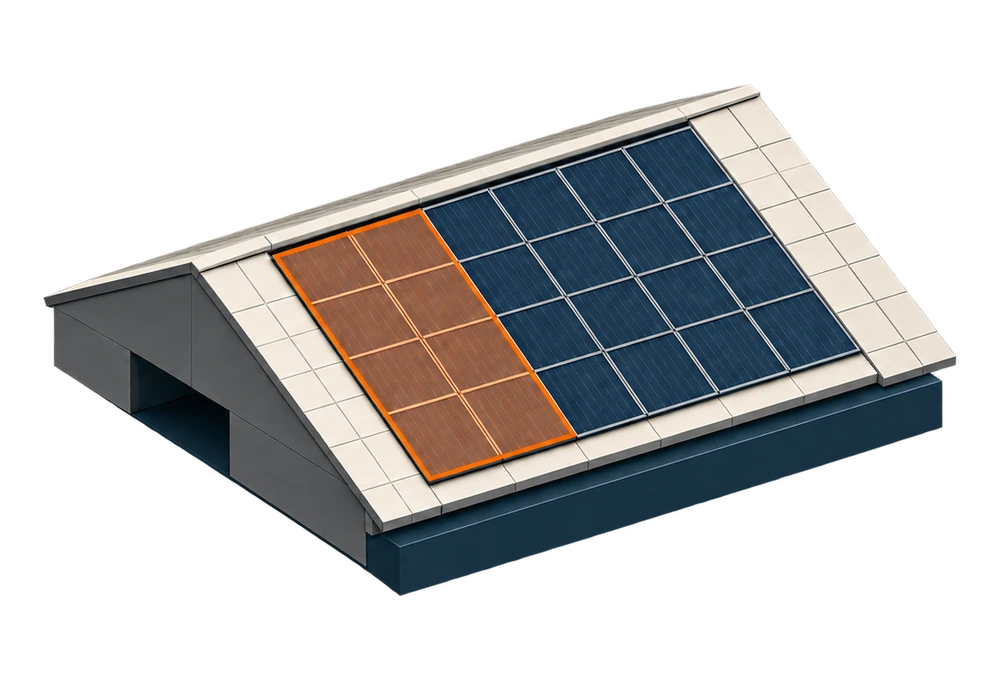
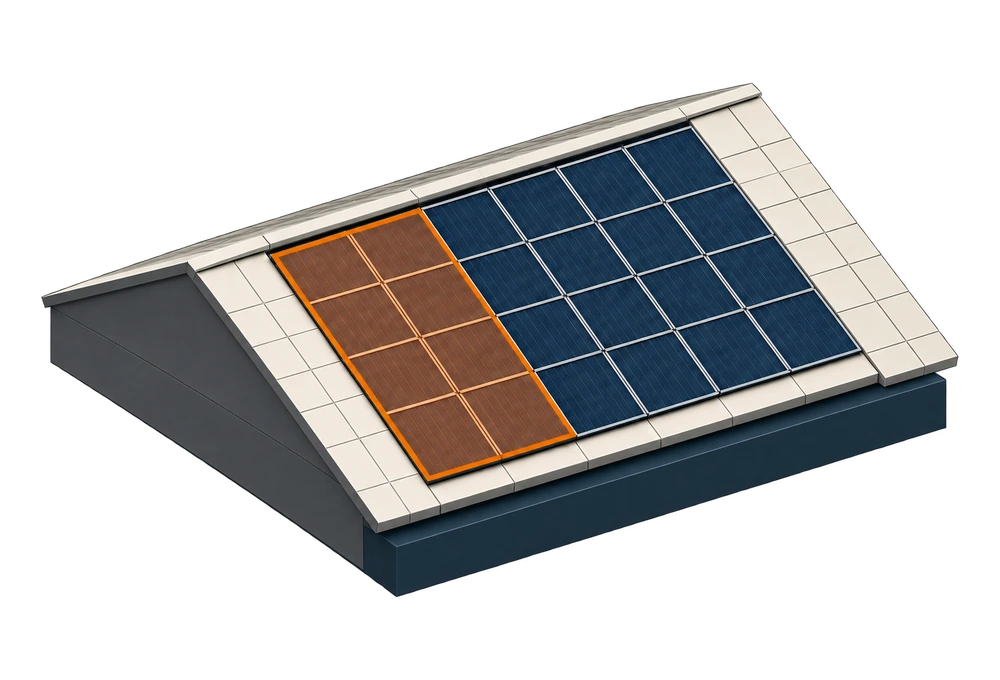
fix: correct roof body in approved technical hero graphic
Close the unintended gable opening, preserve the PV array and highlight,
and refresh graphics-review.webp. Other two motifs are unchanged.
Asset review passed; existing browser/deployment gate remains pending.

diff --git a/docs/qa/technical-hero-2026-10-06/roof-correction.md b/docs/qa/technical-hero-2026-10-06/roof-correction.md
@@ -1,0 +1,33 @@
+# Roof graphic correction — 6 October 2026
+
+User feedback: correct the roof in graphics-review.webp; other two graphics approved.
+
+Changed only the roof asset and rebuilt the comparison sheet. The left gable is
+now a continuous closed face, replacing the unintended open notch. Roof plane,
+gable and plinth read as one coherent architectural object. The six-column,
+four-row module array and two-column orange selection remain coplanar.
+
+The built-in Imagegen edit used result
+`exec-28413e05-d009-4b64-b5b7-eb29de4137e5`. The transparent source was framed
+proportionally into the existing 1000×680 WebP canvas with clear edge padding.
+No application code or layout changed. Consumption and connection asset files
+remain byte-identical to the previous commit.
+
+The final `graphics-review.webp` was inspected against the actual navy surface.
+An independent asset review confirmed the closed body, perspective and aligned
+highlight. This is asset acceptance only; the prior blocked browser acceptance
+and unpublished status are unchanged. Unit/build checks were not rerun for this
+raster-only replacement; the preceding application checks remain recorded in
+verification.json.
+
+## Exact edit prompt (built-in tool, no CLI fallback)
+
+Use case: precise-object-edit.
+Edit target: the attached transparent axonometric PV roof illustration. It is one of three premium technical hero graphics for Project Gateway.
+Correct ONLY this roof illustration, preserving its restrained premium architectural product-render style, camera direction, pale mineral roof finish, midnight-blue photovoltaic panels and base, and thin orange selected-area overlay.
+
+Fix the object geometry: create one physically coherent, complete small gabled roof section. The visible left end must be a clean CLOSED solid triangular gable/end face down to the rectangular base, without an impossible notch, black rectangular hole, unsupported flap, sliced-away corner, hanging wall, or overlapping mismatched roof edges. The ridge, roof plane, eave/fascia and base must meet cleanly and have a single consistent axonometric projection. Use straight crisp architectural edges, with natural soft contact shading. Both ends and all edges must be fully in frame. Retain a low unobtrusive architectural body, no windows, doors or extra structures.
+
+The visible sun-facing roof plane carries a perfectly regular rectangular array of identical photovoltaic modules: exactly SIX columns by FOUR rows. One continuous coplanar module grid; identical cell rhythm and equal spacing in the plane; thin silver module frames. No warped, melted, duplicated or broken module seams. Highlight exactly the leftmost TWO columns through all FOUR rows with a thin orange perimeter and subtle translucent warm tint, aligned precisely to the very same module grid. Do not float the highlight above the roof or give it a second outline.
+
+Clean actual alpha transparency around the silhouette: absolutely no white matte, checkerboard, light halo, grey fringe or stray pixels. Center the entire complete object with at least 6% clear transparent padding on every side. Transparent canvas, landscape roughly 3:2. Premium matte materials, gentle studio light, subtle real dimension. No background, no text, no labels, no numbers, no watermark, no decorative lines. This edit must look like the SAME approved family of illustrations; do not redesign its palette or add details unrelated to a PV roof.
